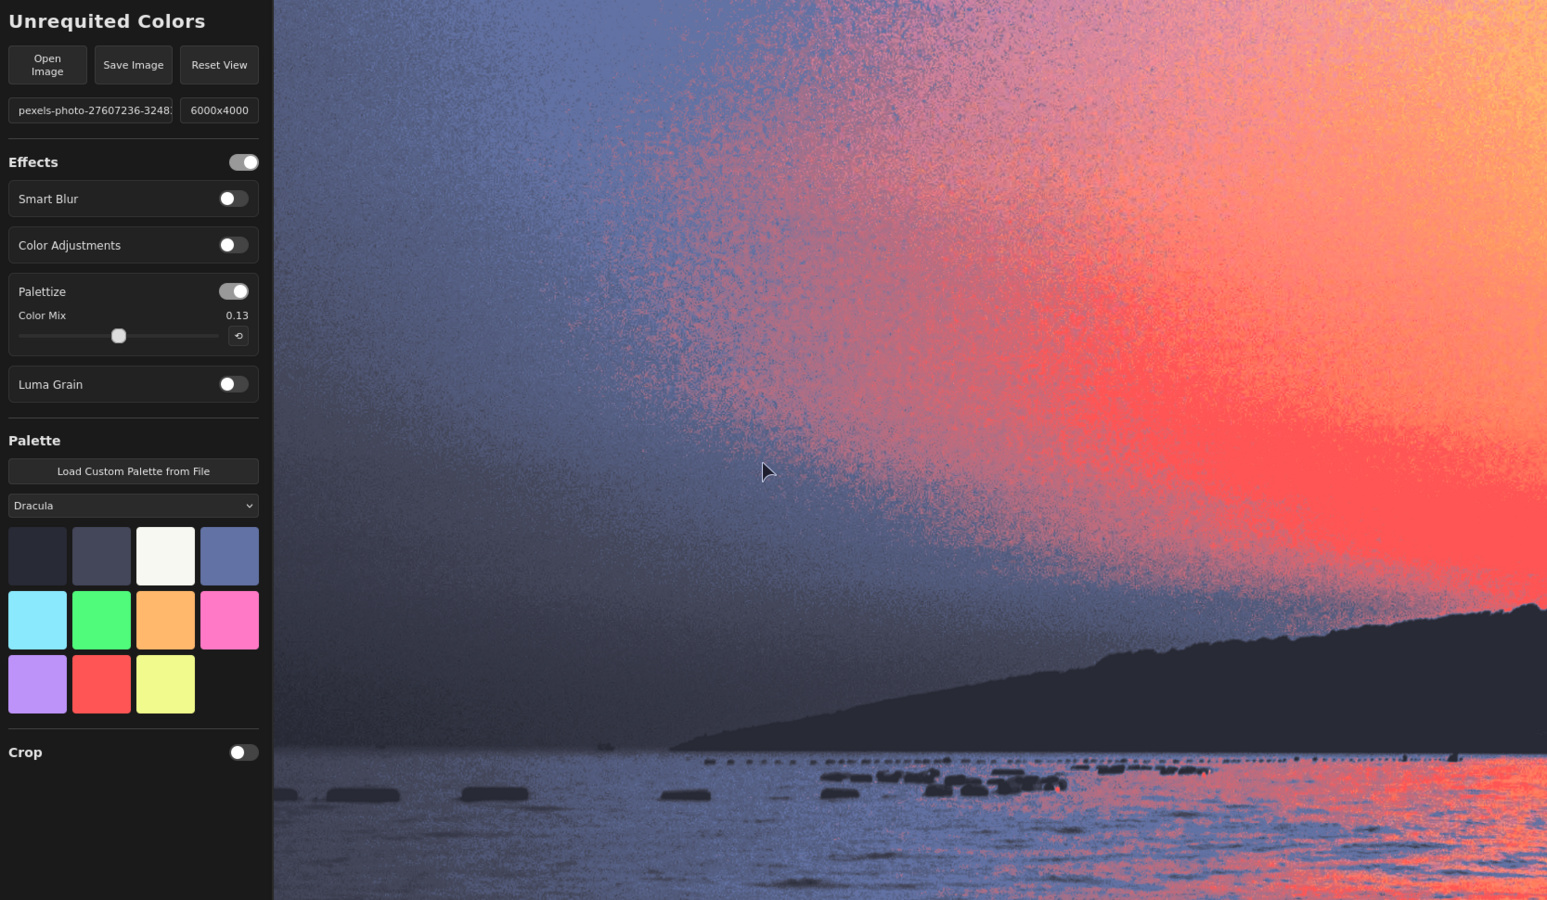
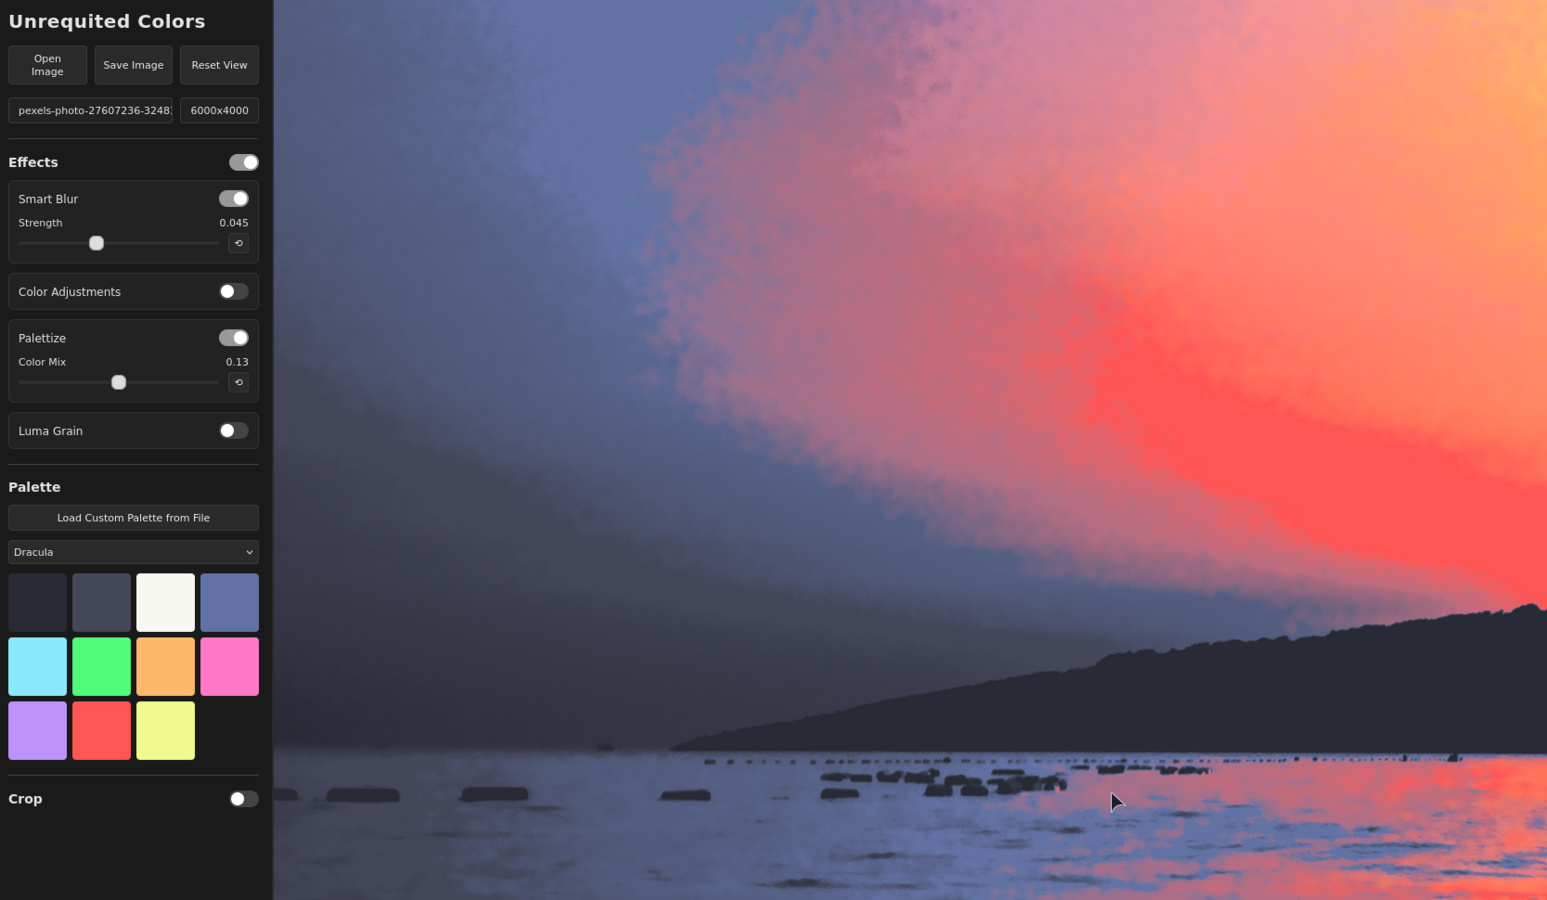
Prepare for v3 release
- Add palettes to palettes.json
- Update doc

diff --git a/src/renderer.ts b/src/renderer.ts
@@ -75,8 +75,6 @@ export class Renderer {
 		gl.bindBuffer(gl.ARRAY_BUFFER, quadBuffer);
 		const quadBufferDataArray = [-1, -1, 1, -1, -1, 1, -1, 1, 1, -1, 1, 1];
 		gl.bufferData(gl.ARRAY_BUFFER, new Float32Array(quadBufferDataArray), gl.STATIC_DRAW);
-		this.vao = gl.createVertexArray();
-		gl.bindVertexArray(this.vao);
 		gl.enableVertexAttribArray(0);
 		gl.vertexAttribPointer(0, 2, gl.FLOAT, false, 0, 0);
 
@@ -282,7 +280,7 @@ export class Renderer {
 		}
 
 		// Shortcut: if no effects, just copy the input texture
-		if (this.renderState.effects.length === 0) {
+		if (this.renderState.effects.length === 0 || !effectsState.enabled) {
 	    	this._copyTexture(this.sourceImageTexture, this.afterRenderTarget);
 	    	this.renderState = null;
 	    	this._present();
@@ -342,7 +340,6 @@ export class Renderer {
 			// Render Tile
 			gl.bindFramebuffer(this.gl.FRAMEBUFFER, rstate.writeTarget.framebuffer);
 			gl.scissor(rstate.tileX, rstate.tileY, tileWidth, tileHeight);
-			gl.bindVertexArray(this.vao);
 			gl.bindTexture(gl.TEXTURE_2D, rstate.texture);
 			gl.useProgram(effect.program);
 			gl.drawArrays(gl.TRIANGLES, 0, 6);

diff --git a/src/main.ts b/src/main.ts
@@ -3,6 +3,7 @@ import './app.css'
 import App from './App.svelte'
 import * as Effects from './effects'
 import { Renderer } from './renderer'
+import type { PalettePreset } from './utils'
 
 async function createEffects() {
     const effectsConfig = [ 
@@ -34,6 +35,7 @@ async function loadPalettePresets() {
     return presets;
 }
 const palettePresets = await loadPalettePresets();
+palettePresets.sort((a: PalettePreset, b: PalettePreset) => a.name > b.name);
 
 const app = mount(App, {
     target: document.getElementById('app')!,

diff --git a/src/components/Palette.svelte b/src/components/Palette.svelte
@@ -1,13 +1,8 @@
 <script lang="ts">
 	import PaletteSwatch from './PaletteSwatch.svelte';
 	import { effectsState } from '../state';
-	import { pickTextFile, pickColor, type PaletteColor } from '../utils'
+	import { pickTextFile, pickColor, type PaletteColor, type PalettePreset } from '../utils'
 	import { getContext } from 'svelte';
-
-	interface PalettePreset {
-	    name: string;
-	    colors: string[];
-	}
 
 	async function loadCustomPalette() {
 		const text = await(pickTextFile());

diff --git a/src/utils.ts b/src/utils.ts
@@ -1,3 +1,8 @@
+export interface PalettePreset {
+    name: string;
+    colors: string[];
+}
+
 export interface PaletteColor {
 	color: string;
 	enabled: boolean;

diff --git a/README.md b/README.md
@@ -2,18 +2,19 @@
 
 *Because not all colors' love are reciprocated.*
 
-Unrequited Colors is a browser-based tool for constraining an image to a color palette. Unlike most similar programs, which rely on simple color quantization, UC uses a more sophisticated algorithm that blends palette colors together to produce smoother gradients while remaining faithful to the selected palette. It also includes a small set of pre- and post-processing filters designed specifically to complement the core algorithm. The primary use case is adapting wallpapers to match a desktop or system theme, though it can be used for any project that requires a limited color palette.
+Unrequited Colors is a browser-based tool for constraining an image to a color palette. Unlike most similar programs, which rely on simple color quantization, UC uses a more sophisticated algorithm that blends palette colors together to produce smoother gradients while remaining faithful to the selected palette. It also includes a small set of pre- and post-processing filters designed specifically to complement the core algorithm. The primary use case is adapting wallpapers to match a desktop or system theme.
 
-Unrequited Colors is not intended to be a full-featured image editor. If your image requires significant editing beyond palette conversion and basic cropping, it is usually best to make those adjustments in your preferred image editor before importing the image into UC.
+Unrequited Colors is not intended to be a full-featured image editor. If your image requires significant editing beyond palette conversion and basic cropping, it is probably best to make those adjustments in your preferred image editor before/after importing the image into UC.
 
 Below are a few examples, with the original image on the left and the UC result on the right.
 
-| Original | Unrequited Colors |
-| -------- | ------------------|
-| ![](/readme/anime-cityscape-orig.jpg) | ![](/readme/anime-cityscape-uc.jpg) |
-| ![](/readme/screenshot-mercy-orig.jpg) | ![](/readme/screenshot-mercy-uc.jpg) |
-| ![](/readme/photo-interior-orig.jpg) | ![](/readme/photo-interior-uc.jpg) |
-| ![](/readme/anime-sunset-balcony-orig.jpg) | ![](/readme/anime-sunset-balcony-uc.jpg) |
+| Theme | Original | Unrequited Colors |
+| ----- | -------- | ------------------|
+| Nord | ![](/readme/digitalart-ashe-lol-orig.jpg) | ![](/readme/digitalart-ashe-lol-nord.jpg) |
+| Gruvbox | ![](/readme/anime-cityscape-orig.jpg) | ![](/readme/anime-cityscape-gruvbox.jpg) |
+| Dracula | ![](/readme/screenshot-mercy-orig.jpg) | ![](/readme/screenshot-mercy-uc.jpg) |
+| Solarized | ![](/readme/anime-sunset-balcony-orig.jpg) | ![](/readme/anime-sunset-balcony-uc-solarized.jpg) |
+| Dracula | ![](/readme/photo-interior-orig.jpg) | ![](/readme/photo-interior-uc.jpg) |
 
 ## TL;DR
 
@@ -26,7 +27,7 @@ Below are a few examples, with the original image on the left and the UC result 
 
 ## Usage
 
-Here is a good starting workflow without getting into the nitty-gritty details of how the algorithm works. After opening your picture: 
+After opening your picture: 
 
 1. Select you palette
 
@@ -55,7 +56,7 @@ The paletization algorithm is very sensitive to noise. In many cases, a small am
 
 5. (OPTIONAL) Activate `Color Adjustements`. 
 
-If you cannot get the effect you are looking for, the `Color Adjustments` filters might help. **These adjustments are applied before palette conversion, not after it.** As a result, they are designed to influence how the algorithm interprets the image rather than to directly change the final colors. Because of this, the sliders may not always behave as you would expect. For example, the `Shadows` slider cannot make a pixel darker than the darkest color available in your palette. Similarly, rotating the Hue can help adapt an image whose original colors are very different from those of the selected palette.
+If you cannot get the effect you are looking for, the `Color Adjustments` filters might help. **These adjustments are applied before palette conversion, not after it.** They are designed to influence how the algorithm interprets the image rather than to directly change the final colors. Because of this, the sliders may not always behave as you would expect. For example, the `Shadows` slider cannot make a pixel darker than the darkest color available in your palette. Similarly, rotating the Hue can help adapt an image whose original colors are very different from those of the selected palette.
 
 For best results, **leave the Palettize filter enabled** while adjusting these controls.
 
@@ -69,9 +70,11 @@ You probably only need small adjustments at this point, if any.
 
 8. (OPTIONAL) `Crop` the image as needed
 
-Activate the `Crop` tool and select your preffered aspect ratio. To set the size and the center of the crop box, click the **Edit Crop** button, then click on the preview and scroll the moouse wheel. Click the button again (or press Escape) to exit crop mode. The crop tool guarantees that the crop region always remains fully inside the image boundaries. Make sure the final resolution is high enough for your use case. 
+Activate the `Crop` tool and select your preffered aspect ratio. To set the size and the center of the crop box, click the **Adjust Crop** button, then click on the preview and scroll the moouse wheel. Click the button again (or press Escape) to exit crop mode. The crop tool guarantees that the crop region always remains fully inside the image boundaries. Make sure the final resolution is high enough for your use case. 
 
 9. Save the image
+
+You can rename the image before saving it. Setting a different extension (`.jpg/.jpeg`, `.png` ou `.webp`) will convert the exported image.
 
 ## How it works
 
